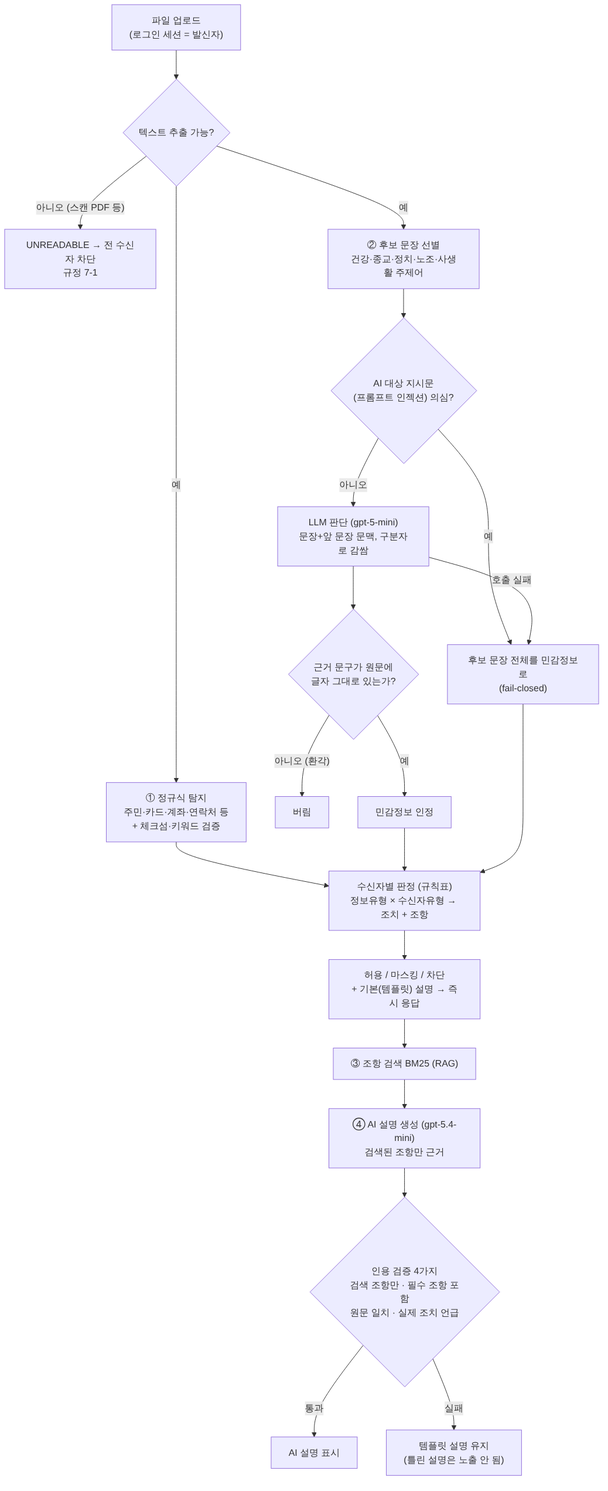
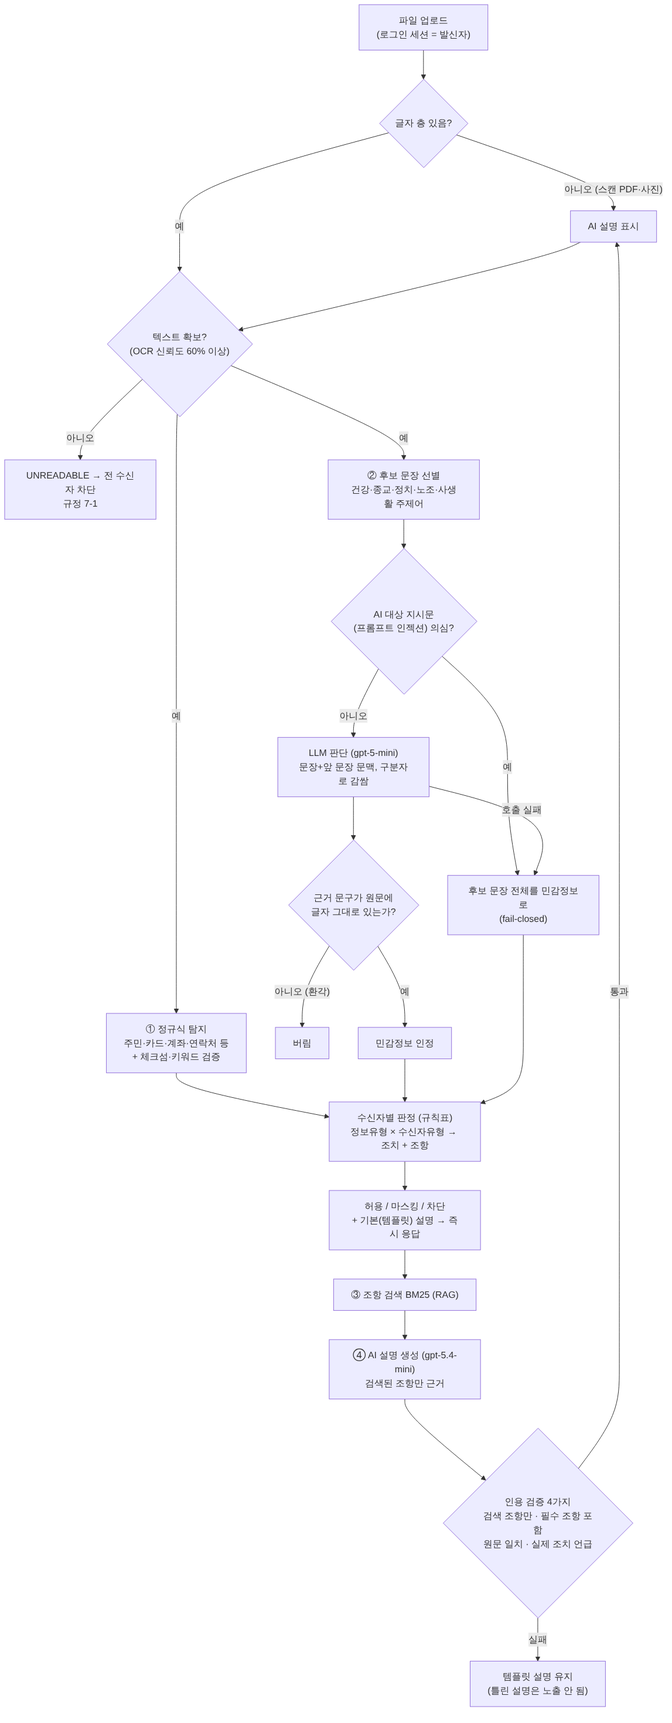
OCR 추가: 스캔 PDF·이미지(PNG·JPG)를 Tesseract 한국어로 읽어 검사
- ocr.py: pypdfium2로 페이지 이미지화, 잡티 제거·자동 이진화 전처리, psm 6 (가짜 스캔 개인정보 인식 3~4/6 → 6/6)
- 인식 신뢰도 60% 미만·10쪽 초과·글자 부족은 확인 불가로 차단(fail-closed), OCR은 별도 스레드, 결과 미캐시
- 화면에 OCR 신뢰도 표시, 업로드 형식에 PNG·JPG 추가, Dockerfile에 tesseract-ocr-kor 설치
- 테스트 4개 추가, 문서(아키텍처·요구사항·멘토 피드백·S9)와 테스트 문서 가이드 갱신

Claude-Session: https://claude.ai/code/session_01FET9rZ8UEeCyRJLPpw4ZHP

diff --git a/web/app.js b/web/app.js
@@ -107,7 +107,9 @@ async function doJudge() {
     : `⚠ ${esc(d.reason)}`;
   const llmLine = d.llm?.llm === 'off' ? 'AI 문맥 판단 꺼짐 (규칙 탐지만)'
     : `AI 문맥 판단: ${esc(d.llm.llm)} · 후보 문장 ${d.llm.candidates}개${d.llm.cached ? ' (이전 판단 재사용)' : ''}${d.llm.error ? ' · ⚠ AI 판단 실패 → 후보 문장을 민감정보로 간주 (' + esc(d.llm.error) + ')' : ''}${d.llm.injection ? ' · ⚠ AI에게 내리는 지시문 의심(' + d.llm.injection_hits.map(esc).join(' / ') + ') → AI 판단을 쓰지 않고 후보 문장을 민감정보로 간주' : ''}`;
-  $('sendMsg').innerHTML = `<span class="found">탐지 결과: ${found}<br>${llmLine}</span>`;
+  const ocrLine = d.ocr_confidence != null
+    ? `<br>📷 스캔 문서·이미지를 OCR로 읽음 (인식 신뢰도 ${d.ocr_confidence}%${d.readable ? '' : ' → 기준 미달이라 확인 불가로 차단'})` : '';
+  $('sendMsg').innerHTML = `<span class="found">탐지 결과: ${found}${ocrLine}<br>${llmLine}</span>`;
   $('results').innerHTML = d.decisions.map(renderDecision).join('');
   if (d.ai_explain && d.decisions.some((x) => x.reasons.length)) loadExplanations(d.judge_id);
   $('btnSend').disabled = !d.decisions.some((x) => x.action !== 'BLOCK');

diff --git a/web/index.html b/web/index.html
@@ -28,7 +28,7 @@
     <section id="send" class="card">
       <h2>보내기</h2>
       <div class="row">
-        <input type="file" id="file" accept=".txt,.pdf,.docx">
+        <input type="file" id="file" accept=".txt,.pdf,.docx,.png,.jpg,.jpeg">
       </div>
       <div id="recipients" class="recipients"></div>
       <div class="row">

diff --git a/backend/app/ocr.py b/backend/app/ocr.py
@@ -1,0 +1,72 @@
+"""스캔 문서·이미지의 글자를 읽는 OCR (멘토 피드백 1-2, 2-1).
+
+- 엔진: Tesseract(오픈소스, 한국어 학습 데이터 kor) — 인터넷·GPU 없이 사내 서버 CPU에서 동작 → 폐쇄망 조건 충족
+- PDF는 pypdfium2로 페이지를 이미지로 바꾼 뒤 읽는다 (외부 프로그램 불필요)
+- 전처리: 흑백 → 잡티 제거(중앙값 필터) → 자동 이진화(Otsu). 스캔 잡음이 있는 시험 문서에서
+  전처리 없이는 개인정보 6개 중 3~4개만 읽혔고, 전처리 + 문단 모드(psm 6)로 6개 모두 읽혔다.
+- 안전장치: 평균 인식 신뢰도가 낮거나 페이지가 너무 많으면 '읽기 불가'로 돌려 차단(fail-closed)한다.
+  잘못 읽은 글자 때문에 개인정보를 놓친 채 통과되는 것을 막기 위해서다.
+"""
+import shutil
+
+MAX_PAGES = 10          # 무료 서버(메모리 512MB)에서 처리 시간을 감당할 수 있는 페이지 수
+DPI = 200               # 시험 결과 200dpi와 300dpi의 인식 결과가 같아 더 빠른 쪽 사용
+MIN_CONFIDENCE = 60     # 평균 단어 신뢰도(0~100)가 이보다 낮으면 '읽기 불가'
+
+
+def available() -> bool:
+    """Tesseract와 한국어 데이터가 설치돼 있는지 (없으면 예전처럼 스캔 문서는 차단)."""
+    if not shutil.which("tesseract"):
+        return False
+    try:
+        import pytesseract
+        return "kor" in pytesseract.get_languages(config="")
+    except Exception:
+        return False
+
+
+def _otsu(hist: list[int]) -> int:
+    """밝기 히스토그램에서 글자/배경을 가장 잘 나누는 경계값."""
+    total = sum(hist)
+    sum_all = sum(i * h for i, h in enumerate(hist))
+    best, best_t, w_b, sum_b = 0.0, 127, 0, 0
+    for t in range(256):
+        w_b += hist[t]
+        if w_b == 0:
+            continue
+        w_f = total - w_b
+        if w_f == 0:
+            break
+        sum_b += t * hist[t]
+        m_b, m_f = sum_b / w_b, (sum_all - sum_b) / w_f
+        between = w_b * w_f * (m_b - m_f) ** 2
+        if between > best:
+            best, best_t = between, t
+    return best_t
+
+
+def _prepare(img):
+    from PIL import ImageFilter
+    g = img.convert("L").filter(ImageFilter.MedianFilter(3))
+    t = _otsu(g.histogram())
+    return g.point(lambda p: 255 if p > t else 0)
+
+
+def read_images(images) -> tuple[str, float]:
+    """이미지 목록 → (전체 텍스트, 평균 신뢰도). 단어가 하나도 없으면 신뢰도 0."""
+    import pytesseract
+    texts, confs = [], []
+    for img in images:
+        img = _prepare(img)
+        texts.append(pytesseract.image_to_string(img, lang="kor+eng", config="--psm 6"))
+        data = pytesseract.image_to_data(img, lang="kor+eng", config="--psm 6", output_type=pytesseract.Output.DICT)
+        confs += [float(c) for c, w in zip(data["conf"], data["text"]) if w.strip() and float(c) >= 0]
+    return "\n".join(texts), (sum(confs) / len(confs) if confs else 0.0)
+
+
+def pdf_pages(data: bytes) -> list:
+    import pypdfium2 as pdfium
+    pdf = pdfium.PdfDocument(data)
+    if len(pdf) > MAX_PAGES:
+        raise ValueError(f"스캔 PDF가 {len(pdf)}쪽으로 OCR 한도({MAX_PAGES}쪽)를 넘음")
+    return [page.render(scale=DPI / 72).to_pil() for page in pdf]

diff --git a/backend/app/extract.py b/backend/app/extract.py
@@ -2,9 +2,12 @@
 
 원칙: 내용을 확인할 수 없으면 readable=False 로 돌려준다.
 판정 단계에서 readable=False 는 규정 7-1에 따라 모든 수신자에게 차단된다(fail-closed).
+스캔 PDF와 이미지(PNG·JPG)는 OCR로 읽고, 인식 신뢰도가 낮으면 읽기 불가로 처리한다.
 """
 import io
 from dataclasses import dataclass
+
+from . import ocr
 
 from docx import Document
 from pypdf import PdfReader
@@ -18,7 +21,8 @@ class Extracted:
     text: str
     readable: bool
     reason: str = ""      # readable=False 인 이유 (화면·로그 표시용)
-    kind: str = ""        # txt / docx / pdf
+    kind: str = ""        # txt / docx / pdf / pdf-ocr / image-ocr
+    ocr_confidence: float | None = None   # OCR로 읽은 경우 평균 인식 신뢰도(0~100)
 
 
 def _from_txt(data: bytes) -> str:
@@ -47,6 +51,23 @@ def _from_pdf(data: bytes) -> tuple[str, int]:
     return "\n".join(pages), max(len(pages), 1)
 
 
+IMAGE_EXT = {"png", "jpg", "jpeg"}
+
+
+def _ocr(images_fn, kind: str) -> Extracted:
+    """OCR 결과를 신뢰도·글자 수 기준으로 검사해 Extracted로 만든다."""
+    if not ocr.available():
+        return Extracted("", False, "스캔 문서·이미지는 OCR이 필요하지만 이 서버에 OCR이 없음", kind)
+    images = images_fn()
+    text, conf = ocr.read_images(images)
+    visible = len("".join(text.split()))
+    if visible < MIN_CHARS_PER_PAGE * max(len(images), 1):
+        return Extracted(text, False, "OCR로도 글자를 거의 읽지 못함 (빈 페이지·사진 등)", kind, round(conf, 1))
+    if conf < ocr.MIN_CONFIDENCE:
+        return Extracted(text, False, f"OCR 인식 신뢰도 낮음 ({conf:.0f}%, 기준 {ocr.MIN_CONFIDENCE}%)", kind, round(conf, 1))
+    return Extracted(text, True, kind=kind, ocr_confidence=round(conf, 1))
+
+
 def extract_text(filename: str, data: bytes) -> Extracted:
     ext = filename.lower().rsplit(".", 1)[-1] if "." in filename else ""
     try:
@@ -57,9 +78,12 @@ def extract_text(filename: str, data: bytes) -> Extracted:
         if ext == "pdf":
             text, n_pages = _from_pdf(data)
             visible = len("".join(text.split()))  # 공백 제외 글자 수
-            if visible < MIN_CHARS_PER_PAGE * n_pages:
-                return Extracted(text, False, "텍스트가 거의 없는 PDF (스캔 이미지로 추정)", "pdf")
+            if visible < MIN_CHARS_PER_PAGE * n_pages:   # 글자 층이 없는 스캔 PDF → OCR
+                return _ocr(lambda: ocr.pdf_pages(data), "pdf-ocr")
             return Extracted(text, True, kind="pdf")
+        if ext in IMAGE_EXT:
+            from PIL import Image
+            return _ocr(lambda: [Image.open(io.BytesIO(data))], "image-ocr")
     except Exception as e:  # 손상된 파일 등도 '확인 불가'로 처리
         return Extracted("", False, f"파일을 읽는 중 오류: {e}", ext)
     return Extracted("", False, f"지원하지 않는 형식(.{ext})", ext)

diff --git a/tests/test_extract.py b/tests/test_extract.py
@@ -30,3 +30,65 @@ def test_image_only_pdf_is_unreadable():
 def test_unsupported_and_broken_files_are_unreadable():
     assert extract_text("a.hwp", b"xx").readable is False
     assert extract_text("a.pdf", b"not a pdf").readable is False
+
+
+# ---- OCR (스캔 PDF·이미지) ----
+import random  # noqa: E402
+from pathlib import Path  # noqa: E402
+
+import pytest  # noqa: E402
+from PIL import ImageDraw, ImageFilter, ImageFont  # noqa: E402
+
+from backend.app import ocr  # noqa: E402
+from backend.app.detect import detect  # noqa: E402
+
+FONT = Path("/usr/share/fonts/opentype/noto/NotoSansCJK-Regular.ttc")
+needs_ocr = pytest.mark.skipif(not (ocr.available() and FONT.exists()), reason="Tesseract(kor) 또는 한글 글꼴 없음")
+LINES = ["[인사발령 통보 - 내부용]", "주민등록번호: 950312-2345678", "연락처: 010-9876-5432 / yunseul.d@example.com",
+         "급여 이체 계좌: 신한 110-234-567890", "영업팀 길하람 사원은 지난주 공황장애 진단을 받았다."]
+
+
+def _scan(lines=LINES, noise=20000):
+    """기울기·번짐·잡티를 넣은 가짜 스캔 이미지 (A4, 200dpi)."""
+    font = ImageFont.truetype(str(FONT), 30, index=1)
+    img = Image.new("L", (1654, 2339), 255)
+    d = ImageDraw.Draw(img)
+    for i, line in enumerate(lines):
+        d.text((120, 120 + 48 * i), line, font=font, fill=20)
+    img = img.rotate(0.8, fillcolor=255).filter(ImageFilter.GaussianBlur(0.6))
+    px = img.load(); rnd = random.Random(1)
+    for _ in range(noise):
+        px[rnd.randrange(img.width), rnd.randrange(img.height)] = rnd.randrange(150, 255)
+    return img
+
+
+@needs_ocr
+def test_scanned_pdf_is_read_by_ocr_and_pii_detected():
+    buf = io.BytesIO(); _scan().convert("RGB").save(buf, "PDF", resolution=200)
+    ex = extract_text("scan.pdf", buf.getvalue())
+    assert ex.readable and ex.kind == "pdf-ocr" and ex.ocr_confidence >= ocr.MIN_CONFIDENCE
+    found = {(e.type, e.text) for e in detect(ex.text)}
+    assert {("RRN", "950312-2345678"), ("PHONE", "010-9876-5432"), ("ACCOUNT", "110-234-567890")} <= found
+    assert "공황장애" in ex.text.replace(" ", "")
+
+
+@needs_ocr
+def test_image_file_is_read_by_ocr():
+    buf = io.BytesIO(); _scan().save(buf, "PNG")
+    ex = extract_text("photo.png", buf.getvalue())
+    assert ex.readable and ex.kind == "image-ocr" and "950312-2345678" in ex.text
+
+
+@needs_ocr
+def test_unreadable_noise_image_is_blocked():
+    img = Image.effect_noise((800, 600), 120).convert("L")
+    buf = io.BytesIO(); img.save(buf, "PNG")
+    assert extract_text("noise.png", buf.getvalue()).readable is False
+
+
+@needs_ocr
+def test_too_many_scanned_pages_is_blocked():
+    pages = [Image.new("RGB", (200, 200), "white") for _ in range(ocr.MAX_PAGES + 1)]
+    buf = io.BytesIO(); pages[0].save(buf, "PDF", save_all=True, append_images=pages[1:])
+    ex = extract_text("long.pdf", buf.getvalue())
+    assert ex.readable is False and "한도" in ex.reason

diff --git a/backend/app/main.py b/backend/app/main.py
@@ -131,7 +131,9 @@ async def _analyze(file: UploadFile, sender: dict, recipient_ids: str):
         raise HTTPException(400, "수신자 id가 올바르지 않음")
     data = await file.read()
     _check_size(data)
-    ex = extract_text(file.filename, data)
+    # OCR(스캔 문서)은 페이지당 약 1초 걸리는 CPU 작업이라 별도 스레드에서 실행한다.
+    # 결과(문서 내용)는 캐시하지 않는다 — 서버에 내용을 남기지 않는 원칙 (검사·전송 때 각각 다시 읽음)
+    ex = await run_in_threadpool(extract_text, file.filename, data)
     entities, llm_info = [], {"llm": "off"}
     if ex.readable:
         entities = detect(ex.text)                       # v0: 정규식 + 검증
@@ -176,6 +178,7 @@ async def judge_file(file: UploadFile = File(...), recipient_ids: str = Form(...
     jid = uuid.uuid4().hex[:12]
     _judge_cache[jid] = (time.time(), decisions, user["id"])
     return {"filename": file.filename, "readable": ex.readable, "reason": ex.reason, "judge_id": jid,
+            "kind": ex.kind, "ocr_confidence": ex.ocr_confidence,
             "ai_explain": llm.enabled(), "entities": [e.to_dict() for e in entities], "llm": llm_info,
             "decisions": decisions}
 

diff --git a/docs/mentor-feedback.md b/docs/mentor-feedback.md
@@ -9,15 +9,15 @@
 | # | 질문 (원문 요지) | 우리 답변·판단 | 반영 내용 | 근거 | 상태 |
 |---|---|---|---|---|---|
 | 1-1 | 최종 프로그램을 **웹브라우저 기반으로 한정한 이유** | 설치 없이 사내 어디서나 접속, 서버가 판정·서명하는 구조를 강제하기 쉬움, WebRTC(P2P)·WebCrypto(서명 검증)가 브라우저 기본 기능 | 웹 기반 '안전한 사내 전송 채널'로 구현·배포. 데스크톱 앱은 보너스, PC 에이전트(메신저·메일 등 다른 경로까지 검사)는 로드맵 | [architecture.md](architecture.md) 5·6절 · `171f2cf`, `6f75d63` | ✅ |
-| 1-2 | **OCR 엔진**은 무엇을 쓰는가 | 일정상 MVP에서 제외. 단, 못 읽는 파일이 '개인정보 없음'으로 통과되면 안 됨 | 텍스트를 추출할 수 없는 파일은 모든 수신자에게 **차단**(규정 7-1, fail-closed) | `extract.py`, `rules.json` · `d097f7e` | ⏸ 향후 사내 OCR (2-1 참고) |
+| 1-2 | **OCR 엔진**은 무엇을 쓰는가 | 처음엔 일정상 제외했으나, 피드백 1·2에서 두 분이 모두 물어 **추가하기로 결정** | **Tesseract 5(한국어)** — 무료 오픈소스, 인터넷·GPU 없이 동작. 상세는 2-1 | `ocr.py` | ✅ |
 | 1-3 | **온프레미스**라면 어떤 LLM을, 어느 정도 인프라로 | 외부 API에 묶이지 않는 구조가 먼저 | OpenAI 호환 주소 하나로 외부 API ↔ 로컬 Ollama 교체, AI 없이도 규칙 탐지로 동작. 필요한 인프라 수준은 실제 GPU에서 측정해 답하기로 함 | `llm.py`, `.env.example` · `951a875` | 🔶 팀원 RTX 4080에서 Ollama 정확도·속도 측정 중 |
 | 1-4 | **SaaS**라면 어떤 클라우드 LLM을 | 현재 코디세이 제공 API 사용. 역할별로 모델을 나눔 | 민감정보 판단은 정확도 중시 gpt-5-mini, 설명은 속도 중시 gpt-5.4-mini (설명 대기 35.4초 → 2.4초, 인용 검증 20/20 동일) | `EXPLAIN_MODEL` · `42925d1`, `313ecd8` | ✅ |
 | 1-5 | 수신자 중 **한 명이라도 위배**되면 나머지도 못 받는가 | 아니다. 같은 파일도 받는 사람에 따라 허용 범위가 다름 | **수신자별 개별 판정**: 차단 대상만 제외, 나머지는 각자 원본 또는 마스킹본을 받음 (예: 인사팀 원본 / 영업팀 마스킹본 / 협력사 차단) | `policy.py` · `97e71d6`, `tests/test_policy_mask.py` | ✅ |
 
-## 피드백 2 — 기술 검토 (전담 멘토, 10월 말)
+## 피드백 2 — 기술 검토 (전담 멘토 송재익, 10월 말)
 | # | 피드백 (원문 요지) | 우리 판단 | 반영 내용 | 근거 | 상태 |
 |---|---|---|---|---|---|
-| 2-1 | 폐쇄망에서 OCR을 어떻게 돌리나, **텍스트가 긁히지 않는 PDF**는 어떻게 읽나, GPU 서버는 어떻게 | 타당한 지적이나 OCR까지는 일정상 무리. 위험한 건 '못 읽었는데 통과'되는 경우 | 페이지당 글자가 거의 없는 PDF(스캔본)는 '읽기 불가'로 판정해 **차단**. 화면에 사유 표시 | `extract.py` · `d097f7e` | ⏸ 한계로 명시, 향후 사내 OCR |
+| 2-1 | 폐쇄망에서 OCR을 어떻게 돌리나, **텍스트가 긁히지 않는 PDF**는 어떻게 읽나, GPU 서버는 어떻게 | 위험한 건 '못 읽었는데 통과'되는 경우. OCR을 넣되 잘못 읽을 가능성까지 막아야 함 | 글자 층 없는 PDF는 pypdfium2로 페이지를 이미지로 바꿔 **Tesseract(CPU, 인터넷 불필요)**로 읽음. 잡티 제거·자동 이진화 전처리로 잡음 섞인 시험 스캔의 개인정보 인식이 3~4/6 → **6/6**. **평균 인식 신뢰도 60% 미만이거나 10쪽 초과면 차단**(fail-closed). GPU 서버는 필수 아님 — 있으면 딥러닝 OCR로 교체해 손글씨·저화질 대응 | `ocr.py`, `extract.py`, `tests/test_extract.py` | ✅ (손글씨는 한계) |
 | 2-2 | Ollama를 쓴다면 **왜** 쓰는가 | 폐쇄망 기업은 외부 API로 문서를 보낼 수 없음 → 사내 GPU에서 도는 로컬 모델이 필요. 외부 API 대비 성능 차이를 숫자로 보여야 함 | 설정만 바꿔 Ollama로 전환 가능한 구조. 같은 측정 스크립트로 외부 API와 비교 | `llm.py` · `951a875`, `scripts/eval_sensitive.py`, `scripts/eval_explain.py` | 🔶 측정 진행 중 |
 | 2-3 | BERT류 모델의 **제한된 토큰**과 **청크 분배** 문제 | 문서 전체를 모델에 넣으면 길이·비용 문제가 큼 | BERT 분류 대신, 민감 주제어가 든 **후보 문장만** 앞 문장 문맥과 함께 LLM에 전송 → 청크 분할 자체가 필요 없음. 대신 주제어 없는 문장은 놓칠 수 있어 측정에서 '후보 탈락'으로 따로 집계 | `sensitive.py` · `951a875` | ✅ (한계 명시) |
 | 2-4 | 근거 조항 검색 시 **검색어에 따라 할루시네이션** 가능 → **검색 결과를 판정할 방법** 필요 | 가장 중요한 위험. 틀린 조항을 근거로 대면 서비스 신뢰가 무너짐 | ① 검색어를 LLM이 만들지 않고 '정보 유형 + 수신자 유형' 고정 문구 사용 ② 검색 정확도 측정 Recall@3 90% → 조 제목 필터 추가 후 **100%** ③ 검색 결과 검증: 규칙표가 정한 **필수 조항이 검색 결과·인용에 있어야** 통과 ④ 설명은 검색된 조항만 인용, 인용문 원문 일치·실제 조치 언급까지 4중 검증, 실패 시 템플릿 → **인용 검증 20/20, 틀린 설명 노출 0건** ⑤ 판정 자체는 AI가 아닌 규칙표 | `retrieve.py`, `explain.py` · `f85b541`, `d88faaa`, `f326927` | ✅ |

diff --git a/docs/architecture.md b/docs/architecture.md
@@ -24,7 +24,7 @@ flowchart LR
   end
   subgraph B["SafeDrop 서버 (FastAPI · Render)"]
     AUTH["auth<br/>로그인·세션(HMAC)"]
-    EXT["extract<br/>TXT·PDF·DOCX 텍스트"]
+    EXT["extract<br/>TXT·PDF·DOCX 텍스트<br/>스캔 PDF·이미지는 OCR"]
     DET["detect<br/>정규식+검증(Luhn 등)"]
     SEN["sensitive<br/>문맥형 민감정보 (LLM)"]
     POL["policy<br/>규칙표 판정"]
@@ -64,7 +64,8 @@ flowchart LR
 | 모듈 | 역할 | 핵심 |
 |---|---|---|
 | `auth.py` | 로그인, 세션 | 시연 비밀번호 → HMAC 서명 세션 토큰(8시간, 탭별). 로그인 실패 IP당 1분 5회 |
-| `extract.py` | 텍스트 추출 | TXT·PDF(pypdf)·DOCX(python-docx). 페이지당 20자 미만 PDF(스캔본)는 **읽기 불가** |
+| `extract.py` | 텍스트 추출 | TXT·PDF(pypdf)·DOCX(python-docx). 글자 층이 없는 스캔 PDF와 이미지(PNG·JPG)는 OCR로 넘김 |
+| `ocr.py` | 스캔 문서 OCR | Tesseract(한국어) + 전처리(잡티 제거·자동 이진화), 인터넷·GPU 불필요. 평균 인식 신뢰도 60% 미만·10쪽 초과는 **읽기 불가 → 차단** |
 | `detect.py` | 정형 개인정보 탐지 | 주민·외국인등록번호(생년월일 검증), 카드(Luhn), 휴대폰, 이메일, 운전면허, 여권·계좌(키워드 근접) |
 | `sensitive.py` | 문맥형 민감정보 | 주제어로 후보 문장만 골라 LLM에 질문. 근거 문구 원문 대조, 실패·인젝션 시 fail-closed |
 | `policy.py` | 수신자별 판정 | 수신자 유형(외부 > 취급자 > 같은 부서 > 다른 부서) × 정보 유형 → 가장 엄격한 조치 + 근거 조항 |
@@ -79,8 +80,11 @@ flowchart LR
 
 ```mermaid
 flowchart TD
-  A["파일 업로드<br/>(로그인 세션 = 발신자)"] --> B{"텍스트 추출 가능?"}
-  B -- "아니오 (스캔 PDF 등)" --> X["UNREADABLE → 전 수신자 차단<br/>규정 7-1"]
+  A["파일 업로드<br/>(로그인 세션 = 발신자)"] --> A2{"글자 층 있음?"}
+  A2 -- "아니오 (스캔 PDF·사진)" --> O["OCR (Tesseract 한국어)<br/>잡티 제거·이진화"]
+  A2 -- "예" --> B
+  O --> B{"텍스트 확보?<br/>(OCR 신뢰도 60% 이상)"}
+  B -- "아니오" --> X["UNREADABLE → 전 수신자 차단<br/>규정 7-1"]
   B -- "예" --> C["① 정규식 탐지<br/>주민·카드·계좌·연락처 등<br/>+ 체크섬·키워드 검증"]
   B -- "예" --> D["② 후보 문장 선별<br/>건강·종교·정치·노조·사생활 주제어"]
   D --> I{"AI 대상 지시문<br/>(프롬프트 인젝션) 의심?"}
@@ -164,16 +168,17 @@ sequenceDiagram
 | 백엔드 | Python 3.12, FastAPI, uvicorn | 파일 처리·AI 라이브러리 생태계, 비동기 WebSocket |
 | 프런트 | HTML + JavaScript (프레임워크 없음) | WebRTC·WebCrypto가 브라우저 기본 기능, 빌드 과정 불필요 |
 | 문서 처리 | pypdf, python-docx | 순수 파이썬, 무료 서버 메모리(512MB) 안에서 동작 |
+| OCR | Tesseract 5 (kor), pypdfium2 | 무료 오픈소스, 인터넷·GPU 없이 CPU로 동작 → 폐쇄망 서버에 그대로 설치 가능. 페이지당 약 1~2초 |
 | 암호 | cryptography (ECDSA P-256), HMAC-SHA256 | 브라우저 WebCrypto로 검증 가능한 표준 곡선 |
 | AI | OpenAI 호환 SDK — 판단 gpt-5-mini, 설명 gpt-5.4-mini | 주소만 바꾸면 로컬 Ollama로 교체 가능(폐쇄망 대응) |
 | 배포 | Render 무료 웹 서비스 (Docker, `render.yaml`) | 카드 없이 외부 접속 가능한 HTTPS 주소 |
-| 테스트 | pytest 37개 | LLM·네트워크 없이 1초, 가짜 LLM으로 안전장치 검증 |
+| 테스트 | pytest 43개 | LLM·네트워크 없이 1초, 가짜 LLM으로 안전장치 검증 |
 
 ## 6. 한계와 향후 계획
 | 한계 (현재) | 향후 |
 |---|---|
 | 공통 시연 비밀번호 로그인 | 사내 계정(SSO/LDAP) 연동 |
-| 스캔 PDF·이미지는 OCR 없이 차단 | 사내 서버에서 동작하는 OCR 추가 |
+| OCR은 인쇄체 기준, 손글씨·저화질은 신뢰도 기준으로 차단 | GPU 서버가 있으면 딥러닝 OCR(예: PaddleOCR)로 교체해 인식률 향상 |
 | 마스킹 사본은 텍스트(.txt)로 전달 | DOCX·PDF 원본 형식 유지 마스킹 |
 | TURN 서버 없음 → P2P 실패 시 서버 메모리 중계 | 사내 TURN 서버 |
 | 무료 서버 재시작 시 감사 로그·서명 키 초기화 | DB·키 관리 서비스에 영구 저장 |

diff --git a/docs/requirements.md b/docs/requirements.md
@@ -24,7 +24,7 @@
 | ID | 요구사항 | 우선순위 | 상태 | 구현 · 검증 |
 |---|---|---|---|---|
 | F1 | TXT·PDF·DOCX에서 텍스트를 추출한다 | 필수 | ✅ | `extract.py` · T |
-| F2 | 텍스트를 추출할 수 없는 파일(스캔 PDF 등)은 모든 수신자에게 차단한다 | 필수 | ✅ | 규정 7-1 · T |
+| F2 | 텍스트를 확보할 수 없는 파일(OCR 신뢰도 미달, 손상 파일 등)은 모든 수신자에게 차단한다 | 필수 | ✅ | 규정 7-1 · T |
 | F3 | 정형 개인정보(주민·외국인등록번호, 여권, 운전면허, 카드, 계좌, 휴대폰, 이메일)를 탐지한다 | 필수 | ✅ | `detect.py`, Luhn·생년월일·키워드 검증 · T, M(`eval_detect`) |
 | F4 | 문장 속 민감정보(건강·신념·정치·노조·사생활)를 AI로 판단한다 | 필수 | ✅ | `sensitive.py` · T(가짜 LLM), M(`eval_sensitive`) |
 | F5 | AI 판단 근거가 원문에 없으면 버리고, AI 호출 실패 시 보수적으로 처리한다 | 필수 | ✅ | fail-closed · T |
@@ -41,7 +41,7 @@
 | F16 | 감사 로그·성능 측정은 정보보호 관리자만 볼 수 있다 | 필수 | ✅ | T |
 | F17 | 문서 속 AI 조작 시도(프롬프트 인젝션)를 탐지하고 보수적으로 처리한다 | 필수 | ✅ | T |
 | F18 | 마스킹 사본을 원본 형식(DOCX·PDF)으로 만든다 | 선택 | ⬜ | 현재 .txt — 사용자 테스트 피드백에 따라 결정 |
-| F19 | 이미지·스캔 문서의 글자를 OCR로 읽는다 | 선택 | ⬜ | MVP 제외 (현재는 F2로 차단) |
+| F19 | 스캔 PDF·이미지(PNG·JPG)의 글자를 OCR로 읽는다 (폐쇄망에서 동작) | 선택 | ✅ | `ocr.py` Tesseract 한국어 + 전처리 · T(가짜 스캔 문서의 주민번호·연락처·계좌 탐지) |
 | F20 | 사내 계정(SSO) 연동 | 선택 | ⬜ | 향후 (현재 시연 비밀번호) |
 
 ## 4. 비기능 요구사항
@@ -55,7 +55,7 @@
 | N6 | 비용 | 무료 인프라 + 최소 AI 호출 | 후보 문장만 전송, 같은 파일 판단 10분 재사용, 수신자 묶어서 설명 1회 호출 |
 | N7 | 개인정보 보호 | 서버에 파일 미보관 | P2P 직접 전송, 중계는 메모리 10분, 로그·캐시에 내용 없음 |
 | N8 | 이식성 (폐쇄망) | 외부 AI 없이 동작 가능 | AI 끄면 규칙 탐지만 동작, OpenAI 호환 주소 교체로 로컬 Ollama 사용 (측정 예정) |
-| N9 | 회귀 방지 | 수정마다 자동 확인 | pytest 37개, 1초 |
+| N9 | 회귀 방지 | 수정마다 자동 확인 | pytest 43개, 1초 |
 | N10 | 접근성 | 설치 없이 브라우저로 외부 접속 | Render 배포 (HTTPS) |
 
 ## 5. AI 기술 적용 (필수 기술 요소 2개 이상)
@@ -67,5 +67,5 @@
 **AI Agent로 주장하지 않는 이유:** 보안 판정을 AI가 스스로 결정하면 결과를 재현·감사할 수 없다. 그래서 판정은 규칙표(결정적)가 하고, AI는 규칙으로 할 수 없는 두 가지(문맥 판단, 설명)만 맡기고 그 출력도 코드로 검증한다.
 
 ## 6. 범위 밖 (이번 프로젝트에서 하지 않는 것)
-- OCR, 개체명 인식(NER) 모델 학습, 자율 Agent 구조, 데스크톱 앱·PC 에이전트(로드맵)
+- 손글씨 OCR, 개체명 인식(NER) 모델 학습, 자율 Agent 구조, 데스크톱 앱·PC 에이전트(로드맵)
 - 실제 기업 데이터 사용 — 모든 조직·규정·개인정보는 가상 기업 "코데브솔루션(주)"의 가짜 데이터

diff --git a/docs/understanding.md b/docs/understanding.md
@@ -64,3 +64,11 @@
    - ② 코드가 문서 전체에서 'AI에게 하는 지시' 패턴(한·영 10종)을 찾고, 발견하면 **LLM 답을 아예 쓰지 않고 후보 문장 전체를 민감정보로 처리(fail-closed)** + 화면에 경고
    - 테스트: LLM이 지시에 완전히 넘어가 "전부 민감정보 아님"이라고 답하는 최악의 경우를 가짜 LLM으로 만들어도 → 건강정보로 처리되고 외부 수신자는 차단됨. 정상 문서와 팀 테스트 문서·규정 문서에서는 오탐 0건
    - 한계: 패턴에 없는 우회 표현은 놓칠 수 있다. 다만 판정 자체는 규칙표가 하고 LLM은 '민감한가'만 답하므로, 속더라도 정규식으로 잡는 주민번호·카드번호 등은 영향을 받지 않는다
+
+## S9. OCR: 스캔 문서·사진도 검사 (멘토 피드백 1-2, 2-1 반영)
+퍼실리테이터와 멘토 두 분이 모두 "글자가 긁히지 않는 PDF는 어떻게 읽나"를 물어 일정을 당겨 추가했다.
+1. **엔진 선택 기준 = 폐쇄망에서 돌아가는가**: Tesseract(무료 오픈소스, 한국어 학습 데이터)는 인터넷·GPU 없이 CPU로 동작 → 사내 서버에 그대로 설치 가능. PDF는 pypdfium2로 페이지를 이미지로 바꿔 읽는다(외부 프로그램 불필요).
+2. **전처리가 결정적이었다(측정)**: 기울기·번짐·잡티를 넣은 가짜 스캔 문서에서 그대로 읽으면 개인정보 6개 중 3~4개만 인식(전화번호 앞자리가 사라지는 등). 흑백 → 잡티 제거(중앙값 필터) → 자동 이진화(Otsu) → 문단 모드(psm 6)로 **6/6 인식, 정규식 탐지까지 그대로 성공**. 200dpi와 300dpi 결과가 같아 빠른 200dpi 사용(페이지당 약 1~2초).
+3. **OCR도 틀릴 수 있다 → 신뢰도로 막는다**: 잘못 읽은 글자 때문에 개인정보를 놓친 채 통과되면 안 되므로, 평균 인식 신뢰도 60% 미만이거나 글자를 거의 못 읽으면 '확인 불가 → 차단'(7-1). 무료 서버 한계로 10쪽 초과 스캔도 차단. 화면에 "OCR로 읽음 (신뢰도 88.7%)" 표시.
+4. **내용은 캐시하지 않는다**: OCR 결과(=문서 내용)를 서버에 잠시라도 남기지 않으려고 검사·전송 때 각각 다시 읽는다(속도보다 원칙 우선). OCR은 별도 스레드에서 실행해 서버가 멈추지 않게 했다.
+5. **한계**: 손글씨·심한 저화질은 신뢰도 기준으로 차단된다. GPU 서버가 있는 회사라면 딥러닝 OCR로 바꿔 인식률을 높일 수 있다(교체 가능한 모듈 구조).

diff --git a/data/testset/README.md b/data/testset/README.md
@@ -34,7 +34,8 @@
 - 표기 변형: `010 1234 5678`, `01012345678`, 주민번호 뒷자리 띄어쓰기
 - **개인정보처럼 보이지만 아닌 것**: 회사 대표번호, 제품 일련번호, 날짜 (정답에 넣지 않음 → 오탐 측정용)
 - 민감정보 문장(건강·사상 등): v1(LLM) 평가용
-- 스캔 이미지 PDF 1~2개: "검사 불가 → 차단" 확인용
+- 스캔 이미지 PDF·사진(PNG/JPG) 1~2개: 이제 **OCR로 읽으므로 정답(labels)도 일반 문서처럼 적어 주세요.** 인쇄 후 휴대폰으로 찍은 사진이면 더 좋습니다
+- 일부러 알아보기 어려운 스캔(흐림·손글씨) 1개: "인식 신뢰도 낮음 → 차단" 확인용 (정답은 빈 목록, `note`에 의도 적기)
 
 ## 분량 목표
 10\~20개 문서. 문서당 개인정보 0\~6개.
